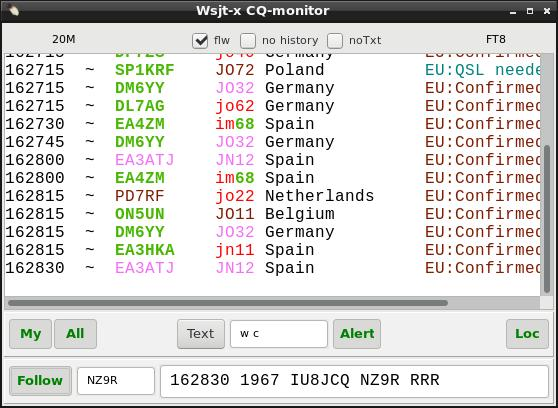
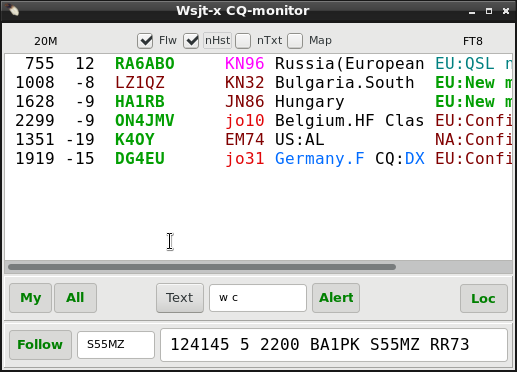
follow line has snr. Grid map starts to all/any

diff --git a/help/wsjt.html b/help/wsjt.html
@@ -111,7 +111,7 @@ You can also toggle  <b>Follow</b> button ON and OFF by mouse clicks (turns gree
 shows decoded lines where that <b>followed callsign is the originating (2nd) callsign</b> and the line is <b>not CQ</b> or not <b>to YOUR Call</b>(destination). That box uses same font and size as CQ-monitor.
 </br>You can also paint any call from WSJT-X main window or CQ-monitor, drag it over Follow callsign field, and drop it there. Follow callsign field can have previous call (it is erased) or empty.
  Dropping also activates <b>Follow button</b> ON (turns green).
-</br></br>Line contains:  <b>decoding_period_time</b> | <b>delta_frequency</b>  | <b>the_message</b>.  
+</br></br>Line contains:  <b>decoding_period_time</b> | <b>snr</b>  | <b>delta_frequency</b>  | <b>the_message</b>.  
  </br>Alerts are not connected  to this line. Follow and flw states and callsing are saved over program restart.
  </br>Line color turns silver gray from default color (black) when corresponding response period is over.
  </br>This will make easier to follow a DX who does not stay same frequency and jumps around answering to callers.
